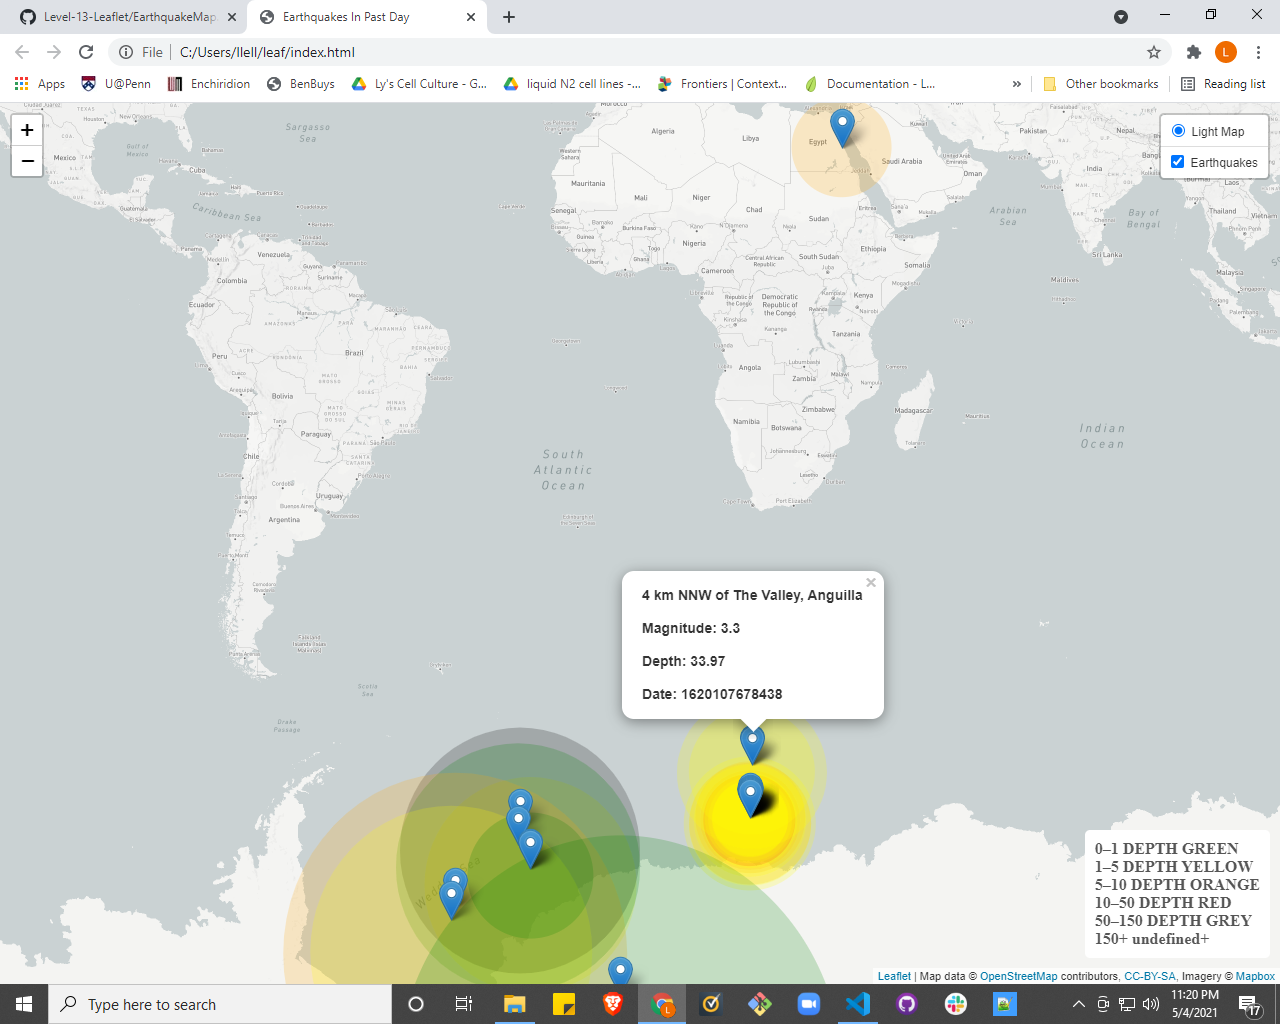
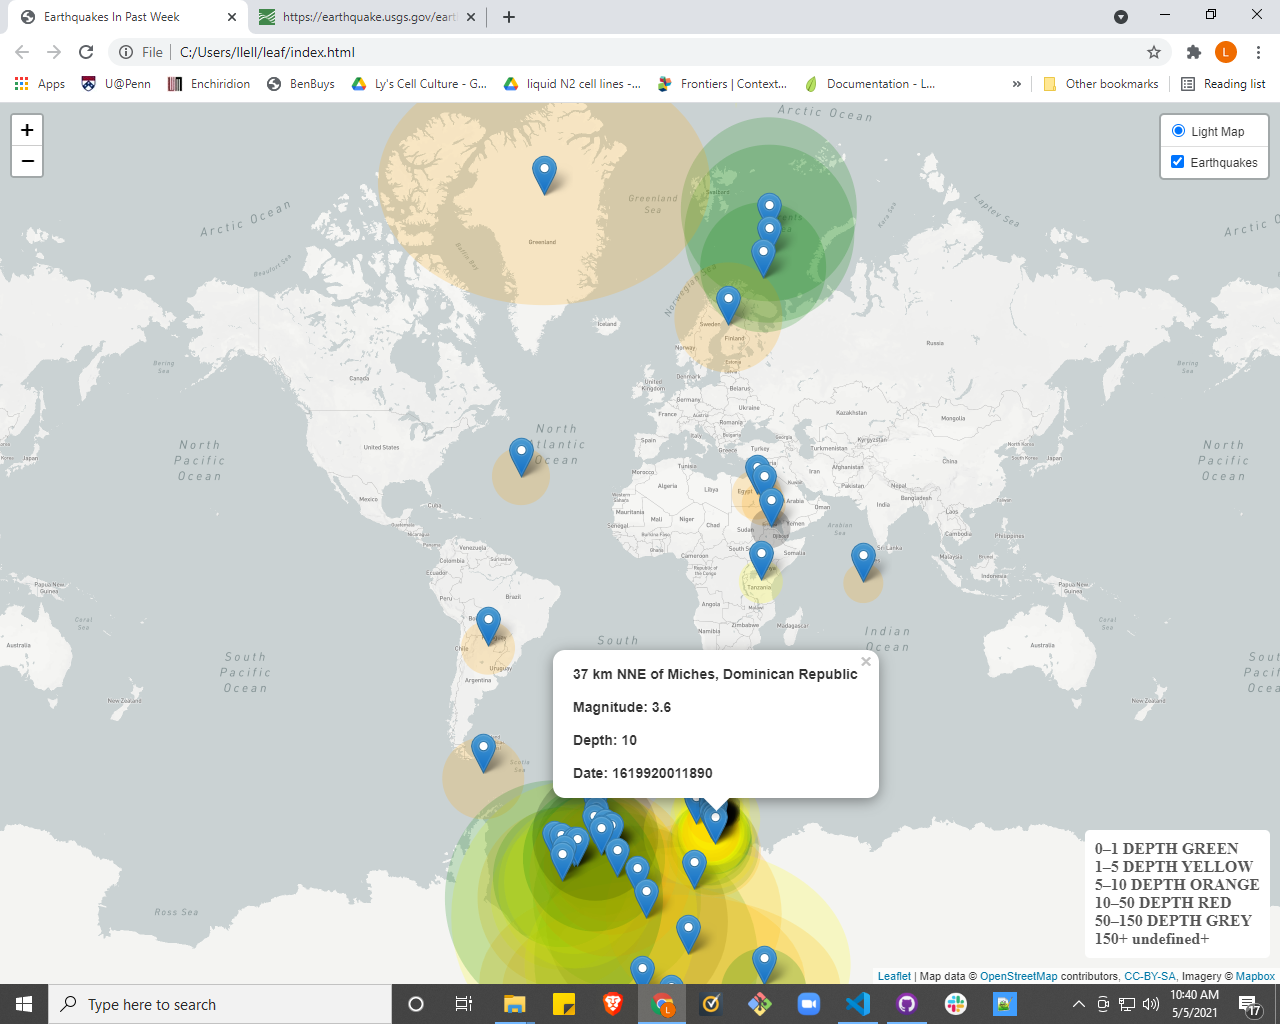
expanded dataset

diff --git a/static/js/logic.js b/static/js/logic.js
@@ -1,5 +1,5 @@
 //Globally accessible Link to GeoJSON data
-var geolink = "https://earthquake.usgs.gov/earthquakes/feed/v1.0/summary/all_day.geojson";
+var geolink = "https://earthquake.usgs.gov/earthquakes/feed/v1.0/summary/all_week.geojson";
 
 //Glonally accessible map variable
 var myMap;

diff --git a/index.html b/index.html
@@ -2,7 +2,7 @@
 <html lang="en">
 <head>
   <meta charset="UTF-8">
-  <title>Earthquakes In Past Day</title>
+  <title>Earthquakes In Past Week</title>
 
   <!-- Leaflet CSS -->
   <link rel="stylesheet" href="https://unpkg.com/leaflet@1.3.3/dist/leaflet.css"/>
